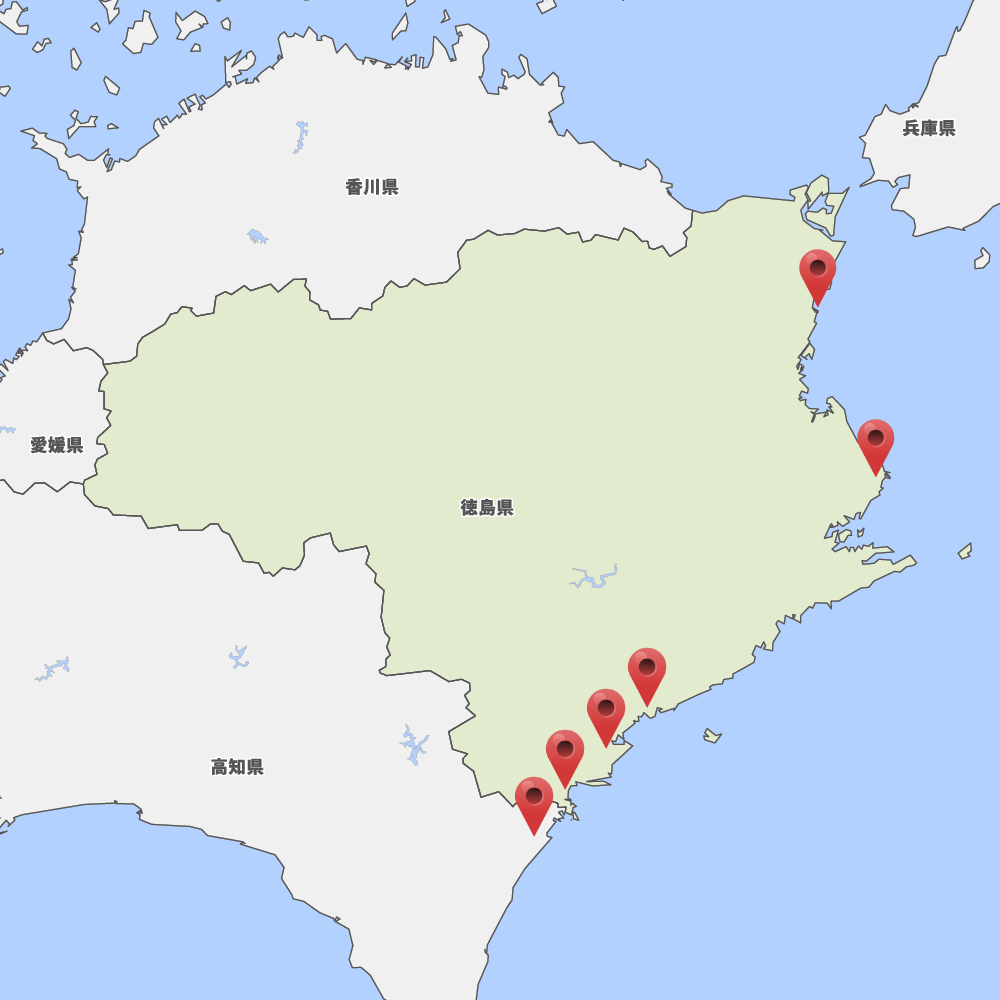
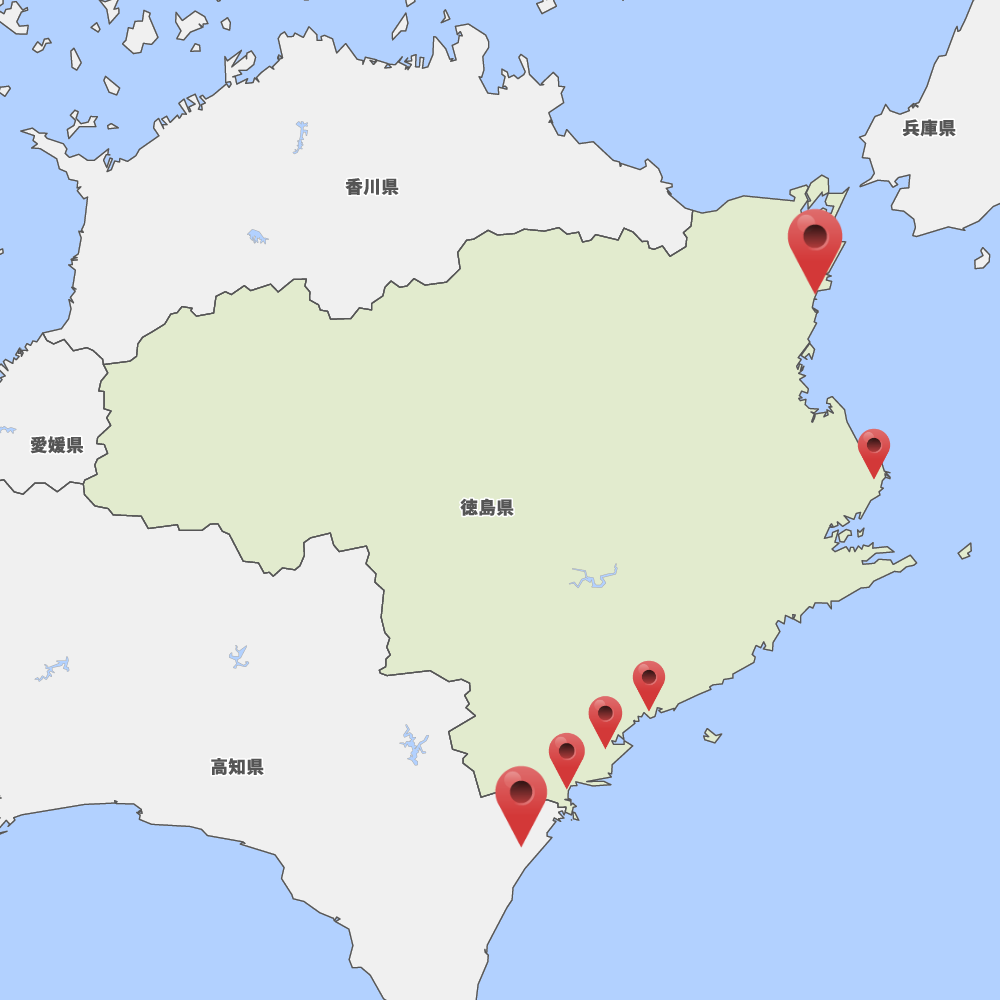
last

Changed region(s): [[0.496, 0.651, 0.682, 0.837], [0.775, 0.186, 0.868, 0.31], [0.837, 0.403, 0.899, 0.465]]

diff --git a/index.html b/index.html
@@ -120,20 +120,13 @@
     <h1 class='content_title'>AREA MAP</h1>
     <div class="areamap">
       <img src="image/map.png" class="areamap_image" usemap="#ImageMap" alt="" />
-      <!-- <map name="ImageMap">
-        <area shape="circle" coords="818,276,32" href="https://ameblo.jp/glaresurf/"　target="_blank" alt="komatu" id="map_komatu" />
-        <area shape="circle" coords="877,448,32" href="https://ameblo.jp/ikumi-michishio/" target="_blank"　alt="tatumi" id="map_tatumi" />
-        <area shape="circle" coords="648,676,42" href="https://ameblo.jp/ikumi-michishio/" target="_blank"　alt="utizuma" id="map_utizuma" />
-        <area shape="circle" coords="598,738,38" href="https://ameblo.jp/ikumi-michishio/" target="_blank"　alt="shirahama" id="map_shirahama"/>
-        <area shape="circle" coords="548,800,37" href="https://ameblo.jp/ikumi-michishio/" target="_blank"　alt="ikumi" id="map_ikumi"/>
-      </map> -->
       <map name="ImageMap">
-        <area shape="circle" coords="818,276,32"  alt="komatu" id="map_komatu" />
-        <area shape="circle" coords="877,448,32"  alt="tatumi" id="map_tatumi" />
-        <area shape="circle" coords="649,672,29"  alt="utizuma" id="map_utizuma" />
-        <area shape="circle" coords="606,713,28"  alt="shishikui" id="map_shishikui"/>
-        <area shape="circle" coords="566,753,27"  alt="shirahama" id="map_shirahama"/>
-        <area shape="circle" coords="533,800,26" href="https://www.youtube.com/watch?v=nJ21An9OwgA" target="_blank"　 alt="ikumi" id="map_ikumi"/>
+        <area shape="circle" coords="817,248,47" href="https://www.youtube.com/watch?v=nJ21An9OwgA" target="_blank" alt="komatu" id="map_komatu" />
+        <area shape="circle" coords="875,451,32"  alt="tatumi" id="map_tatumi" />
+        <area shape="circle" coords="650,680,26"  alt="utizuma" id="map_utizuma" />
+        <area shape="circle" coords="606,715,26"  alt="shishikui" id="map_shishikui"/>
+        <area shape="circle" coords="566,754,26"  alt="shirahama" id="map_shirahama"/>
+        <area shape="circle" coords="520,804,41" href="https://www.youtube.com/watch?v=nJ21An9OwgA" target="_blank" alt="ikumi" id="map_ikumi"/>
       </map>
     </div>
     <p>（特定のピンをタップするとオンラインレッスン動画に飛びます。）</p>
@@ -154,10 +147,12 @@
             <p>〒771-0101　徳島県徳島市川内町旭野169</p>
             <h2>FEATURE</h2>
             <p>うねり：東〜南</p>
-            <p>波質：ダンパー多め。潮の満ち引きにより若干の変動あり。</p>
             <p>潮の狙い目：小波=干潮、中,大波=満潮。満潮波の大きさにより変動あり。</p>
+            <p>駐車場：あり</p>
+            <p>トイレ：あり</p>
+            <p>シャワー：あり</p>
             <h2>CAUTION</h2>
-            <p>ダンパーな波質なため、ボードクラッシュに注意。堤防の付近はカレントに注意。夏には海水浴場にて規制があるため注意。</p>
+            <p>堤防の付近のカレント（潮の流れ）に注意。夏は海水浴場開設のため規制あり。</p>
           </div>
           <img src = "image/komatu.jpg" class = "box_image">
         </div>
@@ -171,10 +166,12 @@
             <p>〒779-1245　徳島県阿南市辰己町中島</p>
             <h2>FEATURE</h2>
             <p>うねり：東</p>
-            <p>波質：干潮時が良いことが多め。潮の満ち引きにより変動あり。</p>
             <p>潮の狙い目：干潮</p>
+            <p>駐車場：なし</p>
+            <p>トイレ：なし</p>
+            <p>シャワー：なし</p>
             <h2>CAUTION</h2>
-            <p>カレントが強いため注意。満潮時、砂浜が見えず危険。</p>
+            <p>カレント（潮の流れ）に注意。テトラポットに注意。</p>
           </div>
           <img src = "image/tatsumi.jpg" class = "box_image">
         </div>
@@ -188,10 +185,12 @@
             <p>〒775-0007　徳島県海部郡牟岐町内妻</p>
             <h2>FEATURE</h2>
             <p>うねり：南</p>
-            <p>波質：良い。ダンパーになることもしばしば。</p>
             <p>潮の狙い目：干潮</p>
+            <p>駐車場：あり</p>
+            <p>トイレ：あり</p>
+            <p>シャワー：あり</p>
             <h2>CAUTION</h2>
-            <p>右から左へのカレントが強いため注意。左にテトラポットがあるため注意。</p>
+            <p>カレント（潮の流れ）に注意。テトラポットに注意。</p>
           </div>
           <img src = "image/image_utizuma.png" class = "box_image">
         </div>
@@ -205,10 +204,12 @@
             <p>〒775-0502 徳島県海部郡海陽町久保板取219-6</p>
             <h2>FEATURE</h2>
             <p>うねり：東</p>
-            <p>波質：良い。干潮時に多い。</p>
             <p>潮の狙い目：干潮</p>
+            <p>駐車場：あり</p>
+            <p>トイレ：なし</p>
+            <p>シャワー：なし</p>
             <h2>CAUTION</h2>
-            <p>満潮時にはテトラポットが海水に浸かるため、サーフィン時には注意。</p>
+            <p>テトラポットに注意。</p>
           </div>
           <img src = "image/shishikui.jpg" class = "box_image">
         </div>
@@ -222,10 +223,12 @@
             <p>〒781-7413 高知県安芸郡東洋町白浜</p>
             <h2>FEATURE</h2>
             <p>うねり：南</p>
-            <p>波質：優しい</p>
-            <p>潮の狙い目：常に良い</p>
+            <p>潮の狙い目：常時</p>
+            <p>駐車場：あり</p>
+            <p>トイレ：あり</p>
+            <p>シャワー：あり</p>
             <h2>CAUTION</h2>
-            <p>台風時など良い波がくる。夏は海水浴場として規制があるため注意。</p>
+            <p>夏は海水浴場開設のため規制あり。</p>
           </div>
           <img src = "image/shirahama.jpg" class = "box_image">
         </div>
@@ -239,10 +242,12 @@
             <p>〒781-7414　高知県安芸郡東洋町大字生見</p>
             <h2>FEATURE</h2>
             <p>うねり：東</p>
-            <p>波質：時期により異なるが基本的に良い。</p>
-            <p>潮の狙い目：常時良好</p>
+            <p>潮の狙い目：常時</p>
+            <p>駐車場：あり</p>
+            <p>トイレ：あり</p>
+            <p>シャワー：あり</p>
             <h2>CAUTION</h2>
-            <p>ポイント中央に岩があるため注意。</p>
+            <p>ポイント中央の岩に注意。</p>
           </div>
           <img src = "image/ikumi.jpg" class = "box_image">
         </div>
@@ -309,8 +314,8 @@
     <div class="icon">
       <a class="fab fa-instagram" href="https://www.instagram.com/tokudaisurfingclub/?hl=ja" target="_blank"></a>
       <a class="fab fa-twitter" href="https://twitter.com/3xi1jdch9r6kq4e" target="_blank"></a>
-      <a class="fab fa-youtube" href="https://www.instagram.com/tokudaisurfingclub/?hl=ja" target="_blank"></a>
-      <a class="far fa-envelope" href="mailto:tokudaisurfingclub@gmail.com"></a>
+      <a class="fab fa-youtube" href="https://www.youtube.com/channel/UCPqWCp4J5muud61qOw728DQ/videos" target="_blank"></a>
+      <a class="far fa-envelope" href="mailto:tokudai.surfingclub@gmail.com"></a>
     </div>
     <p class="copyright">&copy; TOKUSHIMA UNIVERSITY SURFING CLUB</p>
   </footer>
